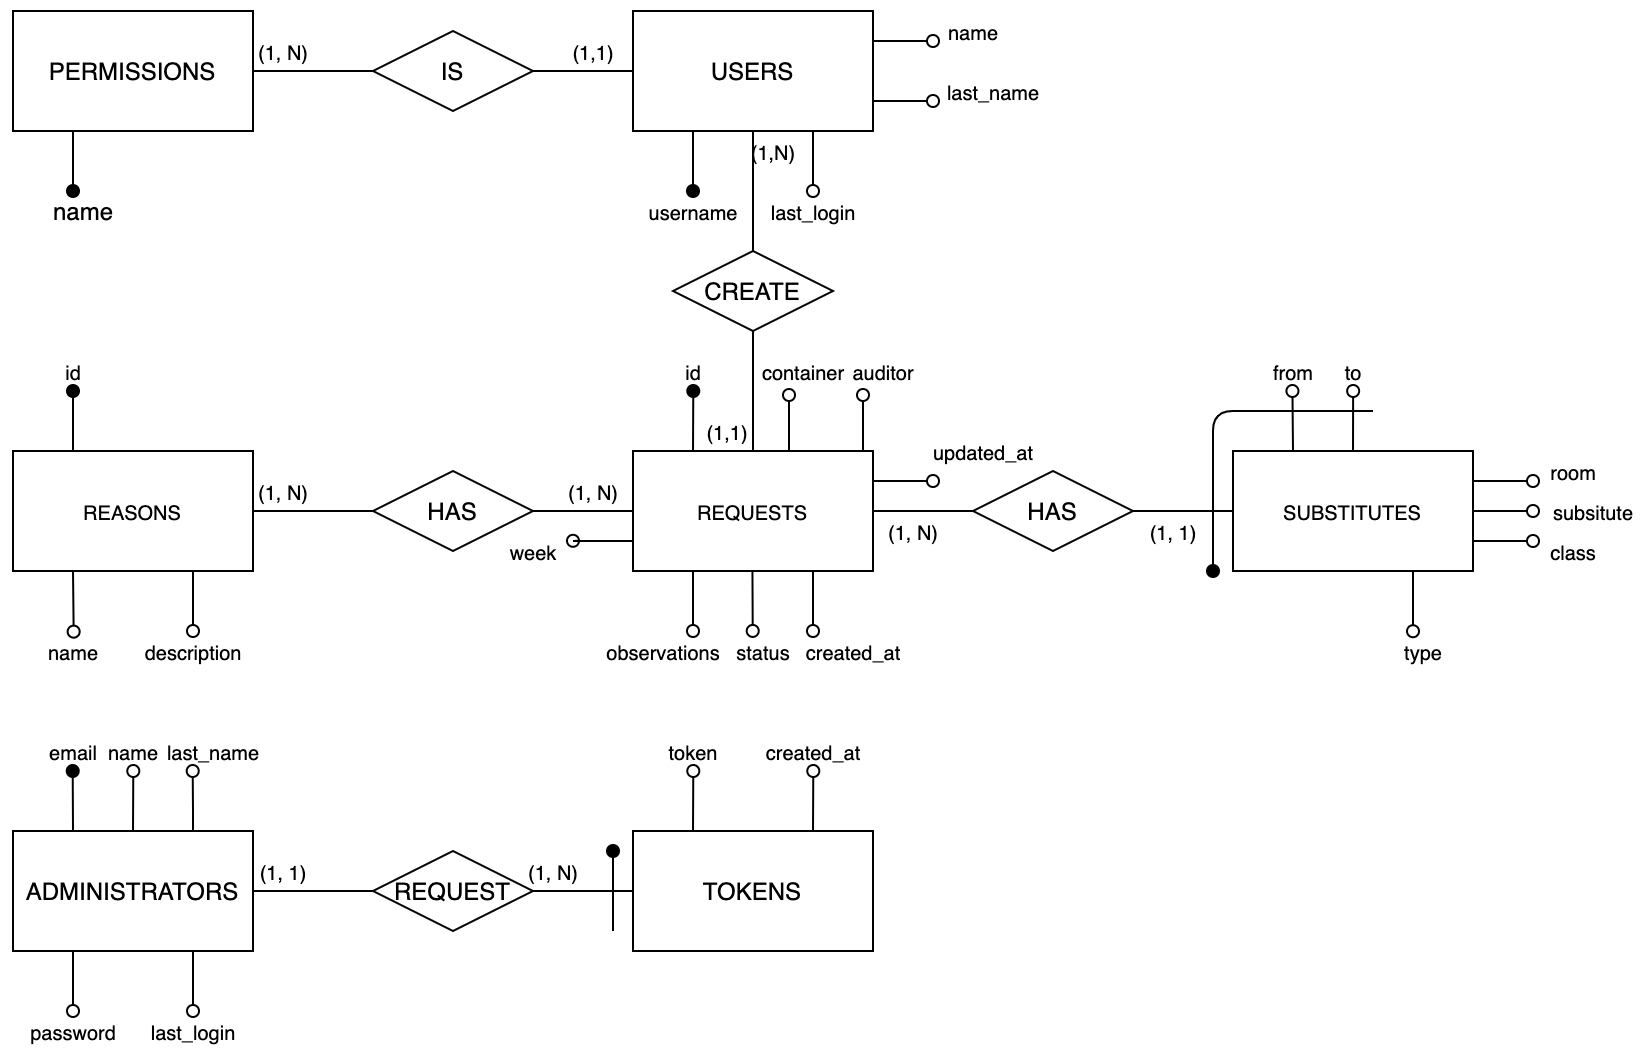
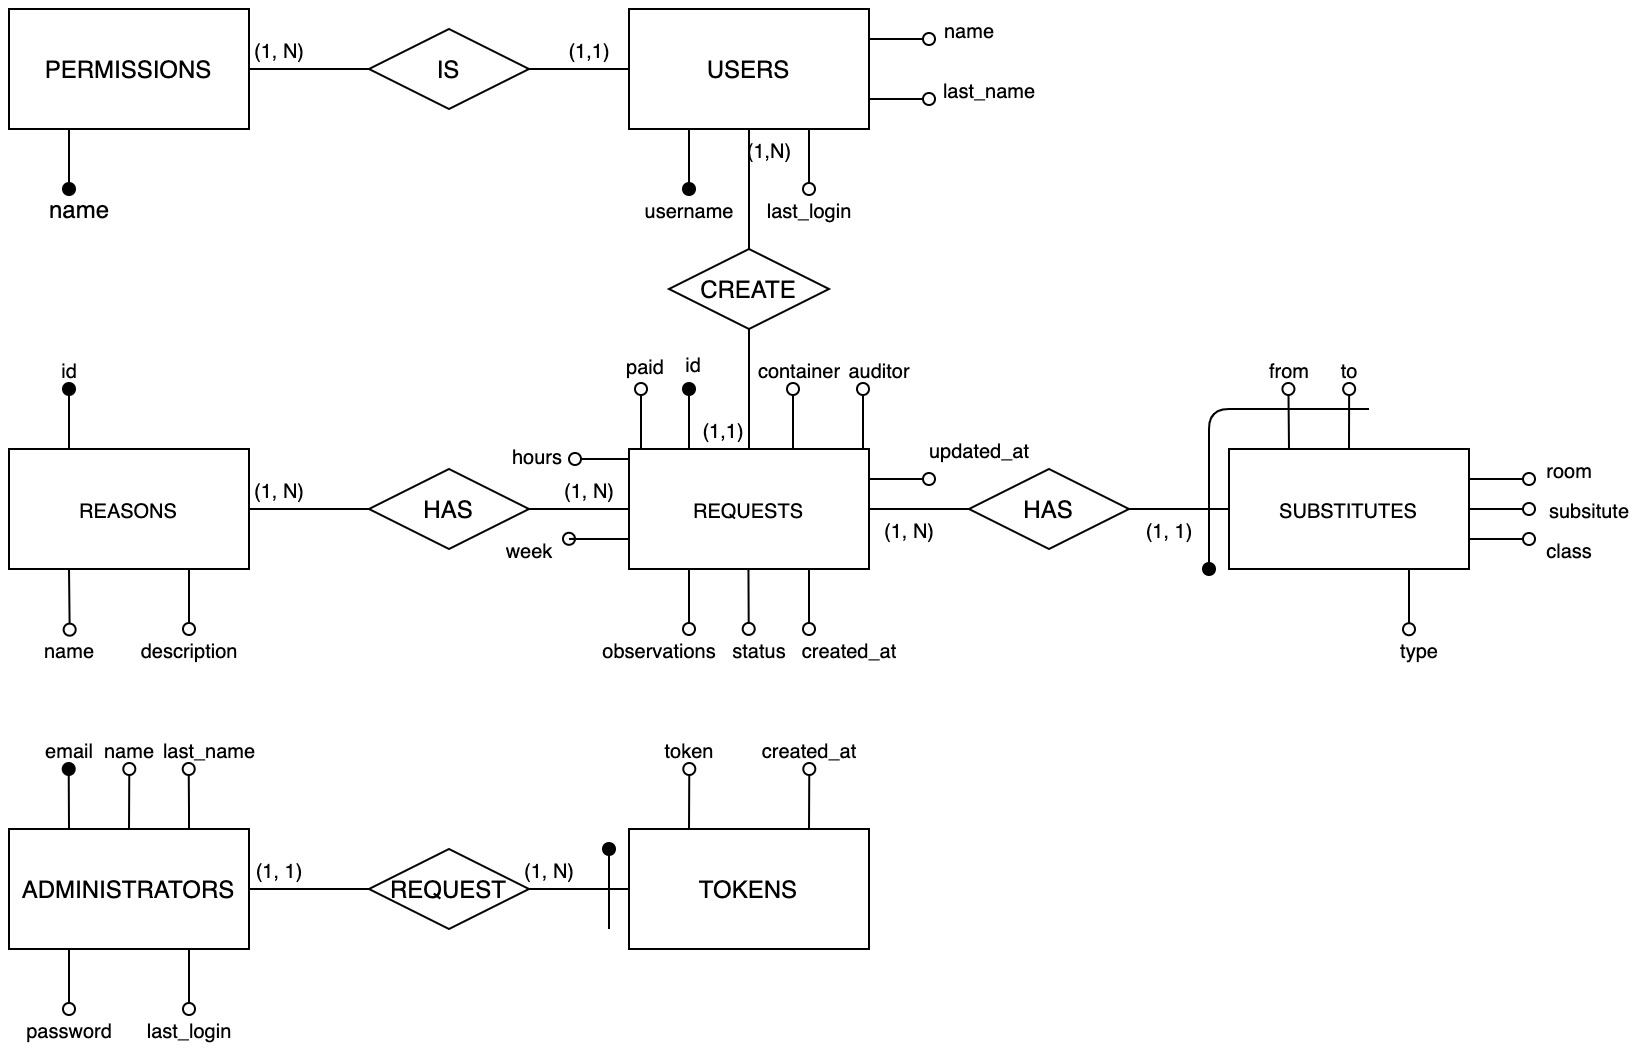
Aggiunte colonne paid e hours

diff --git a/codice/src/Views/Dashboard/index.php b/codice/src/Views/Dashboard/index.php
@@ -83,16 +83,26 @@ if (isset($request)) {
 						<div class="col-12 mt-1">
 							<textarea class="form-control" style="height: 135px;" maxlength="255" placeholder="Osservazioni" id="observations"></textarea>
 						</div>
-						<div class="col-12 mt-1">
+						<div class="col-4 mt-1">
 							<select class="custom-select col-12" id="status">
 									<option selected="" value="0">Stato della richiesta</option>
 									<option value="3">CONSTATATA</option>
 									<option value="1">ACCETTATA</option>
 									<option value="2">RESPINTA</option>
-								</select>
+							</select>
+						</div>
+						<div class="col-4 mt-1">
+							<select class="custom-select col-12" id="paid">
+									<option selected="" disabled>Pagamento supplenza</option>
+									<option value="0">No</option>
+									<option value="1">Si</option>
+							</select>
+						</div>
+						<div class="col-4 mt-1">
+							<input class="form-control" type="number" id="hours" placeholder="Ore riconosciute" min="0">
 						</div>
 						<?php endif; ?>
-						<div class="col-12 text-center mt-1">
+						<div class="col-12 text-center mt-3">
 							<button class="btn btn-outline-primary" onclick="sendRequest(event)">
 							<?php
                                 echo ($editing)?"Aggiorna la richiesta":"Invia la richiesta";
@@ -333,13 +343,24 @@ if (isset($request)) {
 						var toUpdate = <?php echo ($editing)?"true":"false"; ?>;
 						var toAdd = "";
 						<?php if (Session::isAdministration() && $editing): ?>
+							var paid = $("#paid").val();
+							var hours = Number($("#hours").val());
 							var status = $("#status").val();
 							var observations = $("#observations").val();
 							if(!isValidDescription(observations)) {
 								$.notify("Le osservazioni contengono caratteri non ammessi!", "error");
 								return;
 							}
-							toAdd = "&status=" + status + "&observations=" + observations;
+							if(paid == null) {
+								$.notify("Seleziona lo stato del pagamento", "error");
+								return;
+							}
+							if(isNaN(hours) && paid == "1") {
+								$.notify("Seleziona un numero di ore riconosciute");
+								return;
+							}
+							if(!isNaN(hours) && paid == "0") hours = 0;
+							toAdd = "&status=" + status + "&observations=" + observations + "&hours=" + hours + "&paid=" + paid;
 							
 						<?php endif; ?>
 

diff --git a/codice/src/Models/Requests.php b/codice/src/Models/Requests.php
@@ -129,7 +129,7 @@ class Requests
         return false;
     }
 
-    public static function update($id, $week = null, $status = null, $observations = null)
+    public static function update($id, $week = null, $status = null, $observations = null, $paid = null, $hours = null)
     {
         $pdo = Database::getConnection();
         $toSet = "";
@@ -157,6 +157,22 @@ class Requests
                 $toSet .= ", ".$toAdd;
             }
         }
+        if ($paid) {
+            $toAdd = "paid = :paid";
+            if ($toSet == "") {
+                $toSet = $toAdd;
+            } else {
+                $toSet .= ", ".$toAdd;
+            }
+        }
+        if ($hours) {
+            $toAdd = "hours = :hours";
+            if ($toSet == "") {
+                $toSet = $toAdd;
+            } else {
+                $toSet .= ", ".$toAdd;
+            }
+        }
         $query = "UPDATE requests SET auditor = :auditor, $toSet WHERE id = :id";
         $stm = $pdo->prepare($query);
         $stm->bindParam(":id", $id);
@@ -169,6 +185,12 @@ class Requests
         }
         if ($observations) {
             $stm->bindParam(":observations", $observations);
+        }
+        if ($hours) {
+            $stm->bindParam(":hours", $hours);
+        }
+        if ($paid) {
+            $stm->bindParam(":paid", $paid);
         }
         try {
             return $stm->execute();

diff --git a/codice/src/Controllers/Requests.php b/codice/src/Controllers/Requests.php
@@ -97,6 +97,8 @@ class Requests
             $reasons = $request->getParam('reasons');
             $status = $request->getParam('status');
             $observations = $request->getParam('observations');
+            $paid = $request->getParam('paid');
+            $hours = $request->getParam('hours');
             $reasons = explode(",", $reasons);
             $substitutes = json_decode($request->getParam("substitutes"), true);
             foreach ($substitutes as $index => $substitute) {
@@ -111,7 +113,7 @@ class Requests
                 && isset($observations)
                 && Session::isAdministration()) {
                     if (!Validators::isValidDescription($observations)
-                    || !\FilippoFinke\Models\Requests::update($id, null, $status, $observations)) {
+                    || !\FilippoFinke\Models\Requests::update($id, null, $status, $observations, $paid, $hours)) {
                         Database::getConnection()->rollBack();
                         return $response->withStatus(400);
                     }
